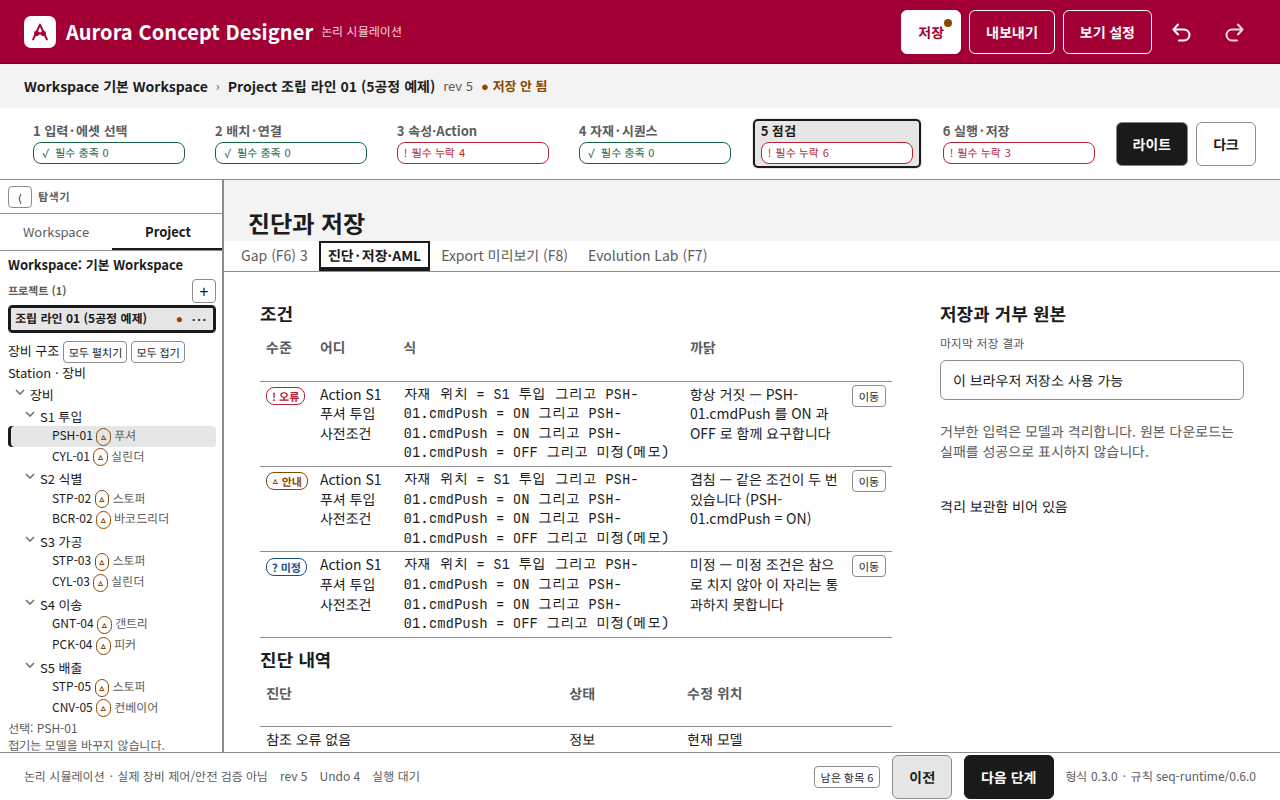
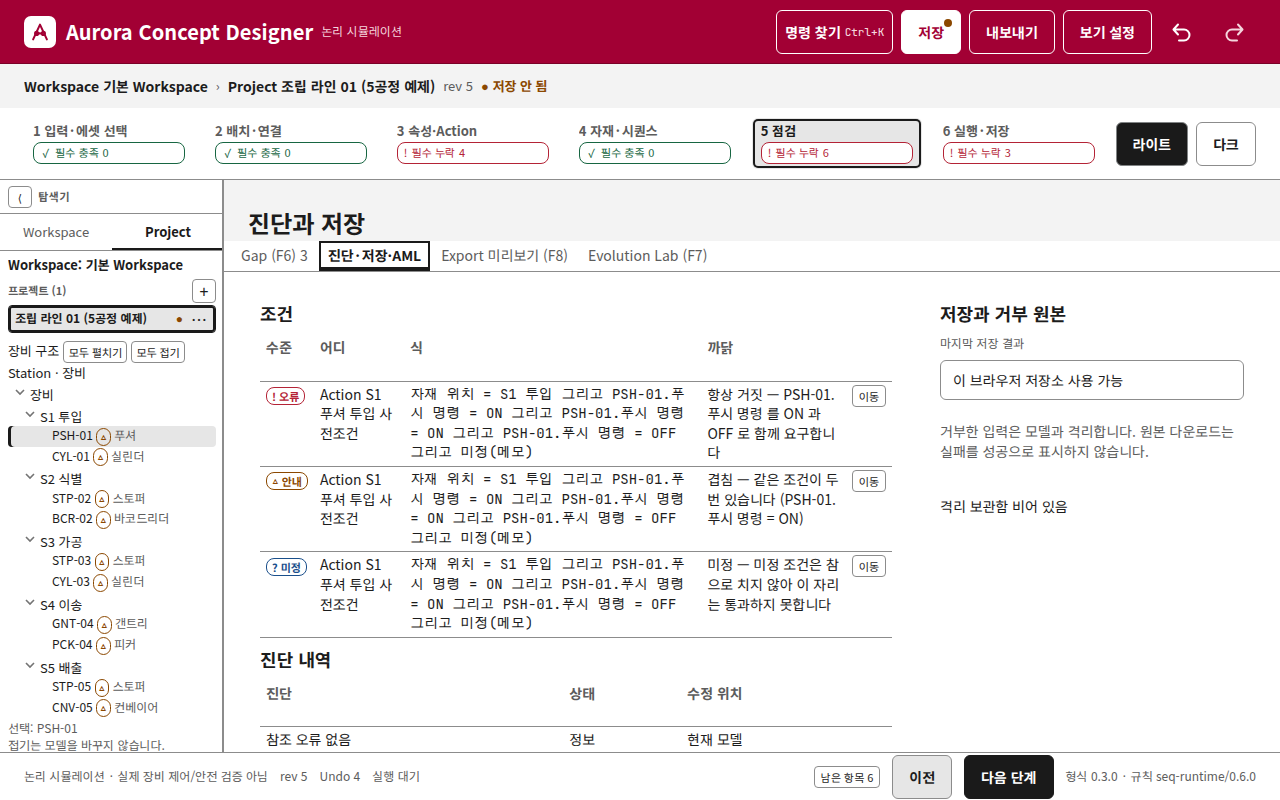
TURN-052: 조건 식은 신호의 화면 이름을 쓴다
한 줄 식이 포트 키 대신 화면 이름을 적는다. 예는 STP-03.상승 완료 = ON 이다.

diff --git a/tests/turn052.test.ts b/tests/turn052.test.ts
@@ -26,17 +26,17 @@ describe('TURN-052 condition formula', () => {
     const four: Condition = { kind: 'materialHeldBy', deviceId: picker.id };
     const five: Condition = { kind: 'undefined', note: '메모' };
     const loose: Condition = { kind: 'materialHeldBy', deviceId: null };
-    expect(conditionFormula(p, one)).toBe('CYL-01.fwdDone = ON');
-    expect(conditionFormula(p, { ...one, equals: false })).toBe('CYL-01.fwdDone = OFF');
+    expect(conditionFormula(p, one)).toBe('CYL-01.전진 완료 = ON');
+    expect(conditionFormula(p, { ...one, equals: false })).toBe('CYL-01.전진 완료 = OFF');
     expect(conditionFormula(p, two)).toBe('자재 위치 = S2 식별');
     expect(conditionFormula(p, three)).toBe('자재 상태 = 식별됨');
     expect(conditionFormula(p, four)).toBe('자재 잡음 = PCK-04');
     expect(conditionFormula(p, loose)).toBe('자재 잡음 = 없음');
     expect(conditionFormula(p, five)).toBe('미정(메모)');
     const line = conditionsFormula(p, [one, two]);
-    expect(line).toBe('CYL-01.fwdDone = ON 그리고 자재 위치 = S2 식별');
+    expect(line).toBe('CYL-01.전진 완료 = ON 그리고 자재 위치 = S2 식별');
     expect(conditionsFormula(p, [one, two])).toBe(line);
-    expect(conditionFormula(p, { kind: 'signal', signalId: 'gone', equals: true })).toBe('없는 신호 gone = ON');
+    expect(conditionFormula(p, { kind: 'signal', signalId: 'gone', equals: true })).toBe('⚠없음:gone = ON');
   });
 });
 

diff --git a/tests/ui-turn052.test.tsx b/tests/ui-turn052.test.tsx
@@ -44,7 +44,7 @@ describe('TURN-052 condition text on the screens', () => {
     const summary = u.el.querySelector('[data-cond-formula]')!;
     expect(summary.textContent).toContain('자재 위치 = S1 투입');
     const interlock = u.el.querySelector('[data-interlock="IL-01"] [data-interlock-summary]')!;
-    expect(interlock.textContent).toContain('STP-03.upDone = ON');
+    expect(interlock.textContent).toContain('STP-03.상승 완료 = ON');
     expect(interlock.textContent).not.toContain('==');
     await u.click(u.el.querySelector('.stepper [data-stepid="sequence"]'));
     const branch = u.el.querySelector('tr[data-flow-kind="branch"] [data-cond-formula]')!;
@@ -54,7 +54,7 @@ describe('TURN-052 condition text on the screens', () => {
     await u.click(u.el.querySelector('.stepper [data-stepid="run"]'));
     const steps = u.el.querySelector('.run-steps')!;
     expect(steps.textContent).toContain('자재 위치 = S1 투입');
-    expect(steps.textContent).toContain('STP-02.upDone = ON 그리고 자재 위치 = S2 식별');
+    expect(steps.textContent).toContain('STP-02.상승 완료 = ON 그리고 자재 위치 = S2 식별');
   });
 
   it('AC8 AC9 AC10 a contradiction is listed, 이동 highlights the condition, and the badge counts it', async () => {

diff --git a/src/model/conditionFormula.ts b/src/model/conditionFormula.ts
@@ -11,14 +11,11 @@ function bit(equals: boolean): 'ON' | 'OFF' {
   return equals ? 'ON' : 'OFF';
 }
 
-/** Device and port, without the ON / OFF. Missing pieces stay readable. */
+/** Screen name of a signal, the same words `sigName` shows. Missing pieces stay readable. */
 export function signalHead(p: Project, signalId: string): string {
   const sig = p.signals.find((s) => s.id === signalId);
-  if (!sig) return `없는 신호 ${signalId}`;
-  const dev = p.devices.find((d) => d.id === sig.deviceId);
-  const devName = dev?.name ?? '장치 없음';
-  const port = sig.portKey ?? (sig.name.startsWith(`${devName}.`) ? sig.name.slice(devName.length + 1) : sig.name);
-  return `${devName}.${port}`;
+  if (!sig) return `⚠없음:${signalId}`;
+  return sig.name;
 }
 
 /** One condition. The same value always returns the same line. */

diff --git a/docs/turns/TURN-052.md b/docs/turns/TURN-052.md
@@ -10,12 +10,12 @@
 
 | 종류 | 글 |
 |---|---|
-| 신호 | `CYL-01.fwdDone = ON` (장치.포트, ON / OFF) |
+| 신호 | `CYL-01.전진 완료 = ON` (화면 이름, ON / OFF) |
 | 자재 위치 | `자재 위치 = S2 식별` |
 | 자재 상태 | `자재 상태 = 식별됨` |
 | 자재 잡음 | `자재 잡음 = PCK-04` 또는 `자재 잡음 = 없음` |
 | 미정 | `미정(메모)` |
-| 묶음 | `CYL-01.fwdDone = ON 그리고 자재 위치 = S2 식별` |
+| 묶음 | `CYL-01.전진 완료 = ON 그리고 자재 위치 = S2 식별` |
 
 검사는 `src/model/conditionCheck.ts` 의 순수 함수다. 같은 모델은 같은 결과를 같은 순서로 낸다. Action 사전·완료, 단계 진입, 분기·재시도·신호 기다림, Interlock 허용 조건을 본다.
 
@@ -39,10 +39,10 @@
 
 | 자리 | 전 | 후 |
 |---|---|---|
-| 신호 한 줄 | `STP-03.상승 완료 = true` | `STP-03.upDone = ON` |
-| Interlock 허용 조건 | `STP-03 · STP-03.상승 완료 = 참` 를 `, ` 로 잇던 글 | `STP-03.upDone = ON` 를 ` 그리고 ` 로 잇는 글 |
+| 신호 한 줄 | `STP-03.상승 완료 = true` | `STP-03.상승 완료 = ON` |
+| Interlock 허용 조건 | `STP-03 · STP-03.상승 완료 = 참` 를 `, ` 로 잇던 글 | `STP-03.상승 완료 = ON` 를 ` 그리고 ` 로 잇는 글 |
 | 미정 | `미정: 메모` | `미정(메모)` |
-| 자재 위치 · 상태 · 잡음 | `자재 위치 = S2 식별` 등 | 있는 대상은 그대로. 없으면 `없는 Unit` · `없는 Device` · `없는 신호` |
+| 자재 위치 · 상태 · 잡음 | `자재 위치 = S2 식별` 등 | 있는 대상은 그대로. 없으면 `없는 Unit` · `없는 Device`. 없는 신호는 `⚠없음:id` |
 | 4단계 단계 줄의 조건 | `진입: … = true; …` | 사전조건과 진입 조건을 ` 그리고 ` 로 잇는다 |
 | 6단계 단계 줄 | 기다림만 `… == true`. 일반 단계는 조건을 안 적음 | 같은 한 줄 식. 일반 단계는 사전·진입 조건 |
 | 6단계 차단 안내 | 검사 문장만 | 조건으로 막힌 문장 뒤에 한 줄 식을 붙인다. 검사 결과와 로그는 그대로 |
